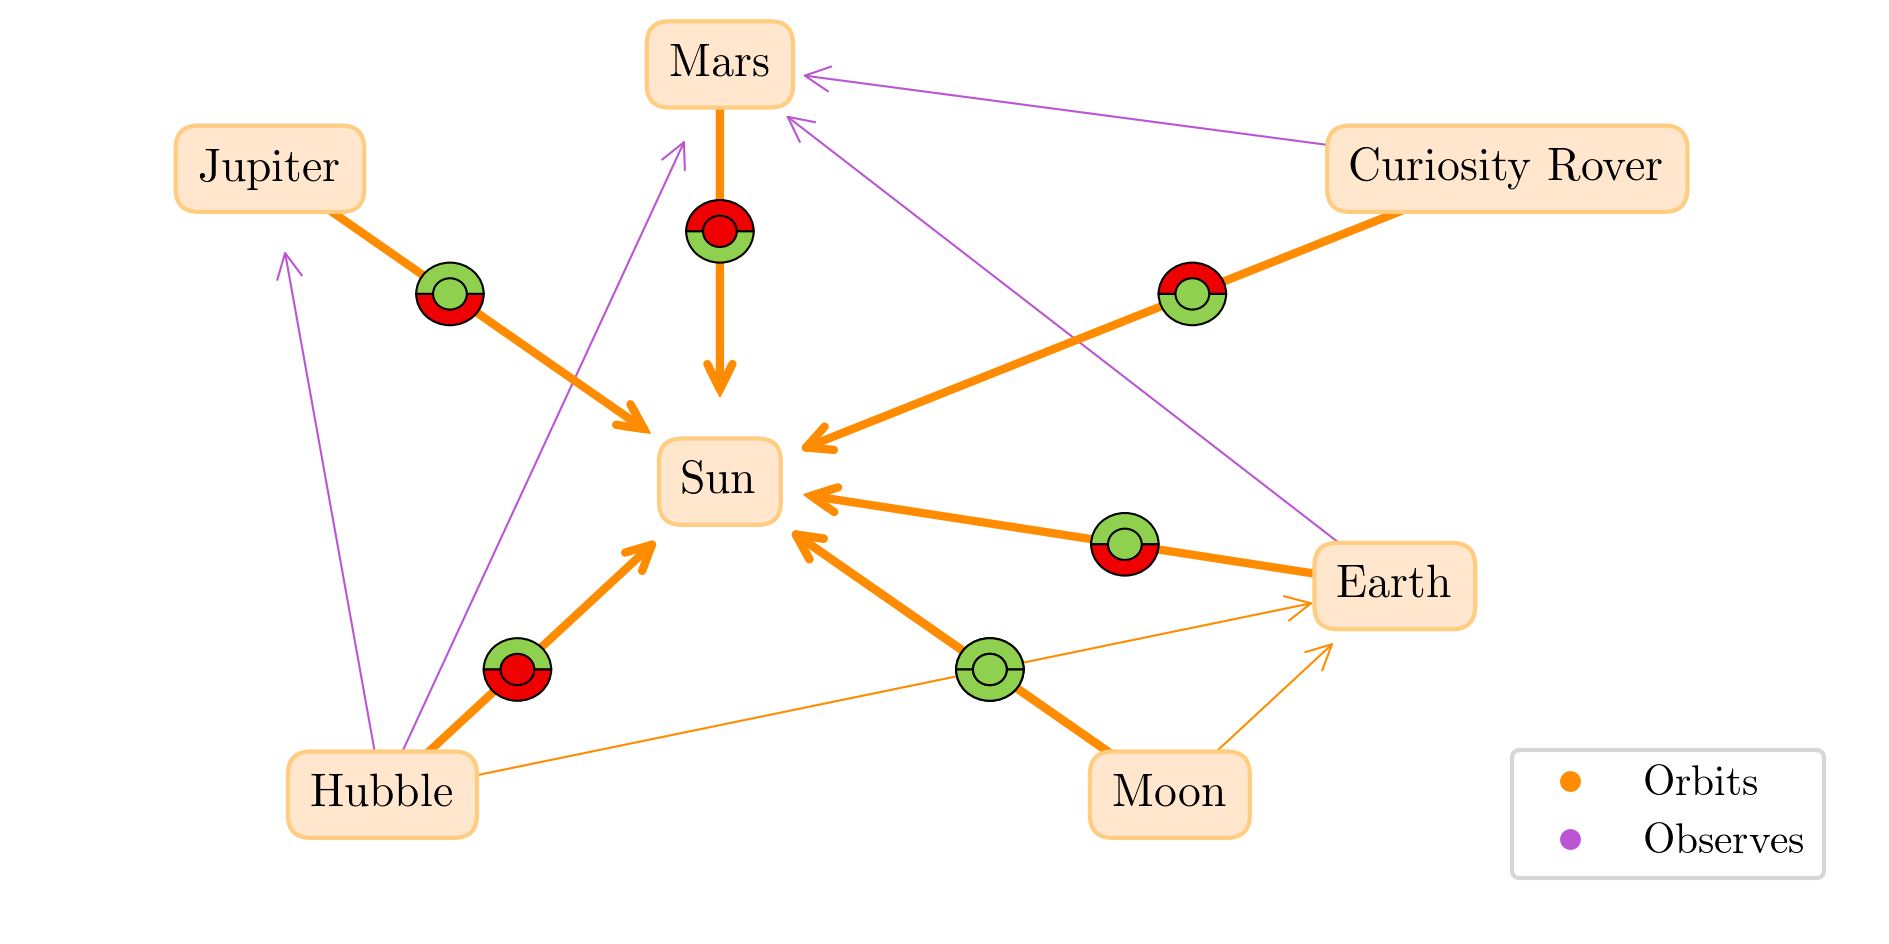
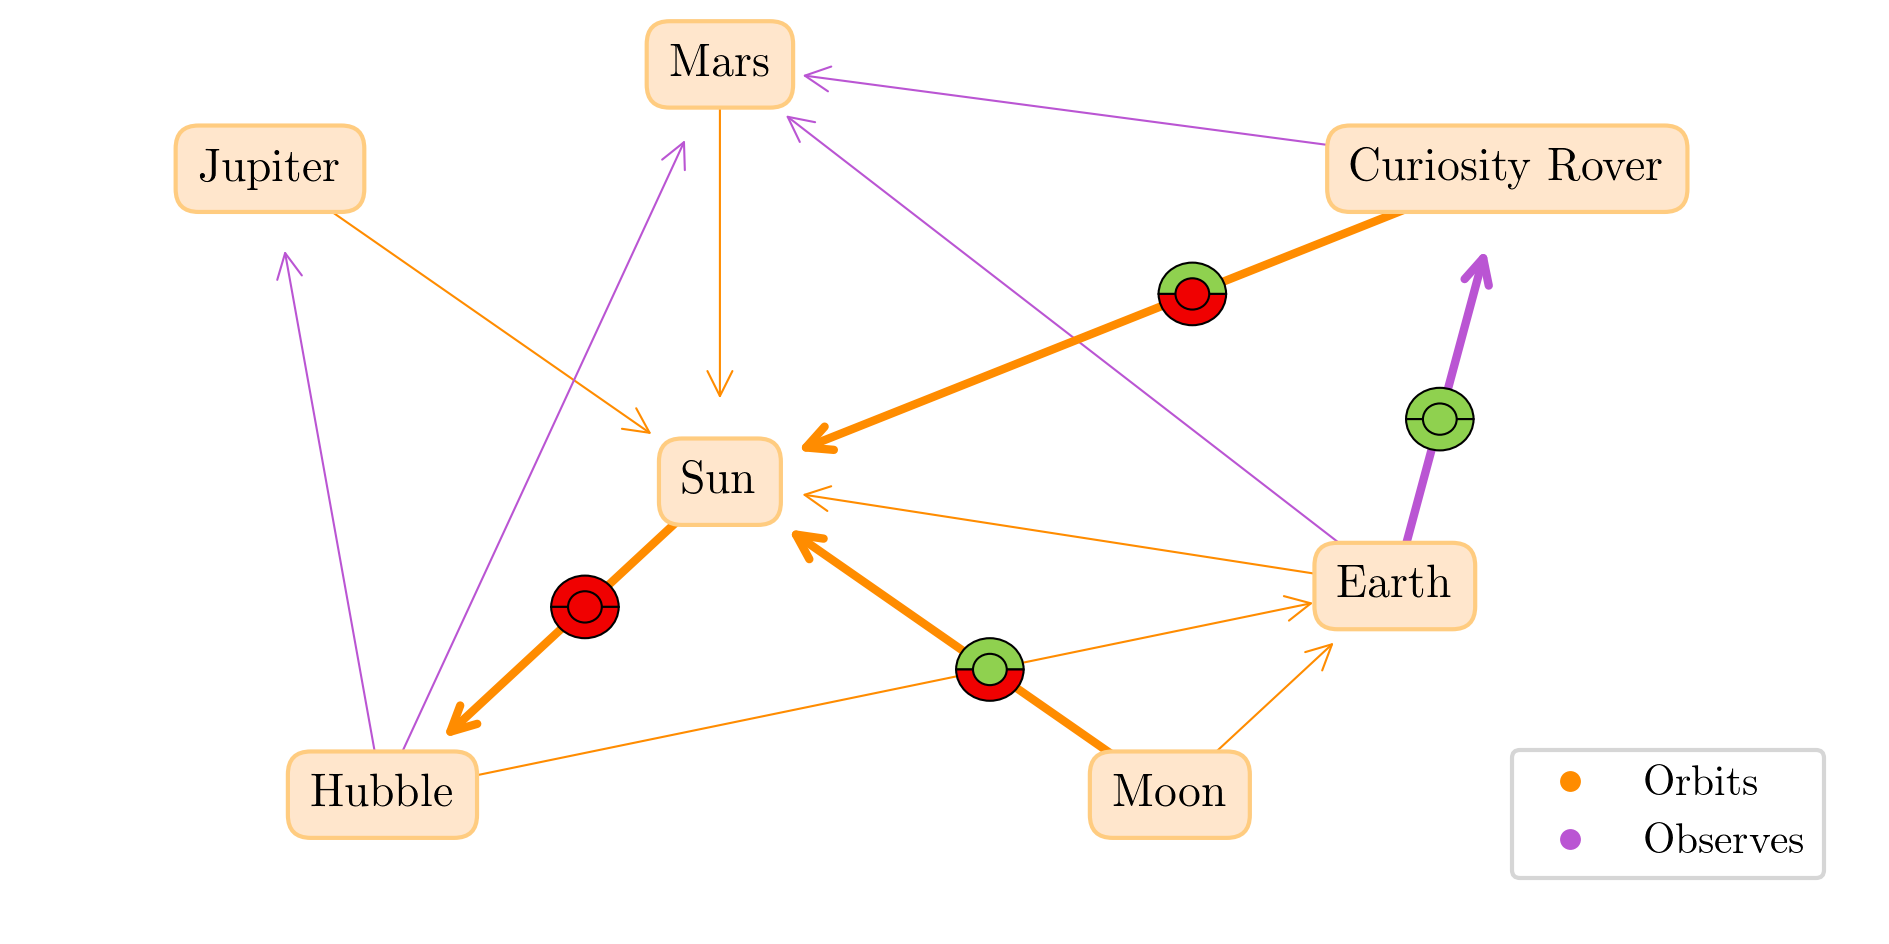
[correct image]

diff --git a/link_prediction/table.tex b/link_prediction/table.tex
@@ -6,14 +6,14 @@
  \hline 
 Rank &$h_0(q, e)$ &$h_1(q, e)$ &$h_2(q, e)$ &Majority &Borda &Range\\
 \hline
-1 &Earth (1.0)&		Earth (77.8)&		Earth (3.2)&		Earth (3.2) &Earth (3.2) &Earth (3.2)\\
-2 &Jup. (1.0)&		Jup. (75.3)&		Mars (3.2)&		Mars (3.2) &Mars (3.2) &Mars (3.2)\\
-3 &Mars (1.0)&		Mars (62.8)&		Jup. (3.2)&		Jup. (3.2) &Jup. (3.2) &Jup. (3.2)\\
+1 &Earth (1.0)&		Jup. (87.0)&		Mars (3.2)&		Mars (3.2) &Mars (3.2) &Mars (3.2)\\
+2 &Jup. (1.0)&		Earth (81.7)&		Earth (3.1)&		Earth (3.1) &Earth (3.1) &Earth (3.1)\\
+3 &Mars (1.0)&		Mars (67.2)&		Jup. (3.0)&		Jup. (3.0) &Jup. (3.0) &Jup. (3.0)\\
 4 &Moon (0.4)&		Moon (45.8)&		Moon (0.1)&		Moon (0.1) &Moon (0.1) &Moon (0.1)\\
 \hline \hline
-5 &Rover (0.0)&		Hubble (36.7)&		Hubble (-1.9)&		Hubble (-1.9) &Hubble (-1.9) &Hubble (-1.9)\\
-6 &Hubble (0.0)&		Rover (35.8)&		Sun (-2.1)&		Sun (-2.1) &Sun (-2.1) &Sun (-2.1)\\
-7 &Sun (0.0)&		Sun (34.1)&		Rover (-2.1)&		Rover (-2.1) &Rover (-2.1) &Rover (-2.1)\\
+5 &Rover (0.0)&		Rover (27.3)&		Rover (-1.8)&		Rover (-1.8) &Rover (-1.8) &Rover (-1.8)\\
+6 &Hubble (0.0)&		Sun (19.1)&		Sun (-1.9)&		Sun (-1.9) &Sun (-1.9) &Sun (-1.9)\\
+7 &Sun (0.0)&		Hubble (12.3)&		Hubble (-2.2)&		Hubble (-2.2) &Hubble (-2.2) &Hubble (-2.2)\\
 \end{tabular}
 \caption{Sorted values of $h_i(tr(q,e))$ with $q=\langle ?, \text{orbits}, \text{sun} \rangle$ where we want to predict Moon}
 \end{table}

diff --git a/link_prediction/main.py b/link_prediction/main.py
@@ -171,16 +171,16 @@ if __name__ == "__main__":
 
     ]
     test_relations = [
-        # ("Earth", "observes", "Curiosity Rover", 0.9),
-        # ("Curiosity Rover", "orbits", "Sun", 0.4),
-        # ("Sun", "orbits", "Hubble", 0.1),
+        ("Earth", "observes", "Curiosity Rover", 0.9),
+        ("Curiosity Rover", "orbits", "Sun", 0.4),
+        ("Sun", "orbits", "Hubble", 0.1),
         ("Moon", "orbits", "Sun", 0.7),
-        ("Jupiter", "orbits", "Sun", 0.7),
-        ("Mars", "orbits", "Sun", 0.7),
-        ("Earth", "orbits", "Sun", 0.7),
-        ("Curiosity Rover", "orbits", "Sun", 0.7),
-        ("Moon", "orbits", "Sun", 0.7),
-        ("Hubble", "orbits", "Sun", 0.7),
+        # ("Jupiter", "orbits", "Sun", 0.7),
+        # ("Mars", "orbits", "Sun", 0.7),
+        # ("Earth", "orbits", "Sun", 0.7),
+        # ("Curiosity Rover", "orbits", "Sun", 0.7),
+        # ("Moon", "orbits", "Sun", 0.7),
+        # ("Hubble", "orbits", "Sun", 0.7),
         # ("Hubble", "observes", "Sirius", 0.9),
     ]
 
